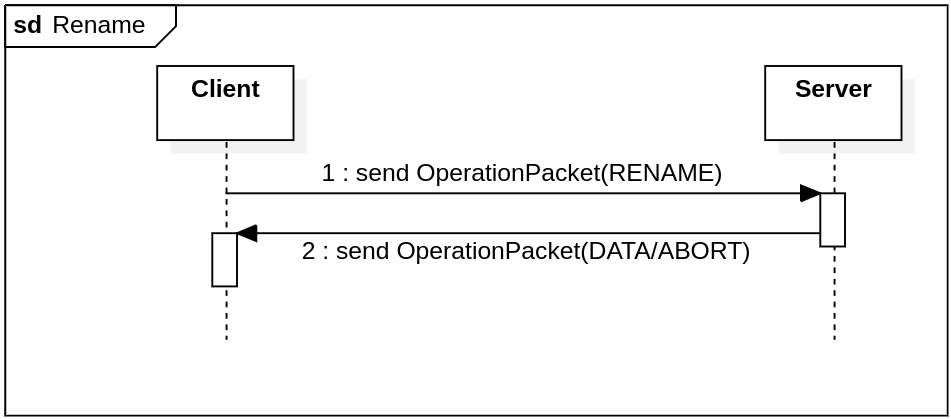
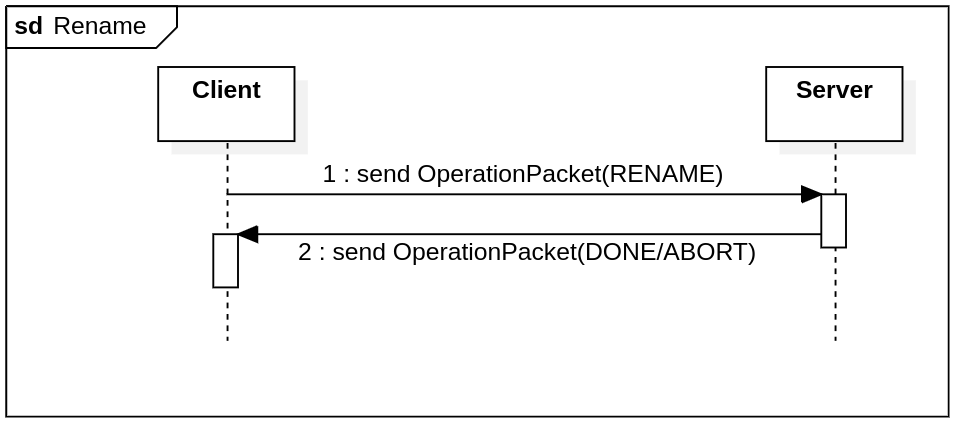
Add chapter 3

Changed region(s): [[0.0, 0.0, 1.0, 1.0], [0.1525, 0.1551, 0.3354, 0.3413], [0.2135, 0.6516, 0.244, 0.7136]]

diff --git a/chapters/chapter-3.tex b/chapters/chapter-3.tex
@@ -10,7 +10,7 @@
 %**************************************************************
 \section{Structure of packets}
 
-There is one generic packet that will be exchanged during the client - server communication. It is made of: \newline{}
+There is one generic packet that will be exchanged during the client - server communication. We shall call it ``OperationPacket'' and it is made of: \newline{}
 \begin{itemize}
 	\item AAD (24 bytes)
 	\item IV (12 bytes)
@@ -78,6 +78,18 @@ An in depth description of every single content of the AAD is necessary:
 In this section every operation and its sequence diagram will be discussed and explained.
 
 \subsection{Upload}
+\begin{enumerate} 
+	\item client, after validating filename, file existance and size, sends OperationPacket with payload made of the filename and AAD made of message counter and: \newline{}
+	\begin{itemize}
+		\item operation ID = UPLOAD;
+		\item number of packets that will be sent to server;
+		\item payload length: the size of the filename.
+	\end{itemize}
+	\item server validates the request checking the filename and if the file does not exists already and sends ACK if valid, otherwise ABORT;
+	\item client starts sending in order but asynchronously data packets containing the content of the files;
+	\item server reads and validates every packets, checking if they are being received in the correct order. When the server finishes reading all the packets it sends a DONE.
+
+\end{enumerate}
 
 \begin{figure}[!h] 
     \centering 
@@ -86,7 +98,20 @@ In this section every operation and its sequence diagram will be discussed and e
     \label{fig:upload_operation}
 \end{figure}
 
+\newpage{}
+
 \subsection{Download}
+\begin{enumerate}
+	\item client, after validating filename and file existance, sends OperationPacket with payload made of the filename and AAD made of message counter and: \newline{}
+	\begin{itemize}
+		\item operation ID = DOWNLOAD;
+		\item payload length: the size of the filename.
+	\end{itemize}
+	\item server validates the request checking filename and if the file exists and sends ACK if valid, otherwise ABORT;
+	\item client sends ACK;
+	\item server starts sending in order but asynchronously data packets containing the content of the files;
+	\item client reads and validates every packets, checking if they are being received in the correct order. When the client finishes reading all the packets it sends a DONE.
+\end{enumerate}
 
 \begin{figure}[!h] 
     \centering 
@@ -94,9 +119,14 @@ In this section every operation and its sequence diagram will be discussed and e
     \caption{Download operation.}
     \label{fig:download_operation}
 \end{figure}
-
+\newpage{}
 \subsection{List}
-
+\begin{enumerate}
+	\item client sends OperationPacket LIST;
+	\item server sends OperationPacket DATA containing all the filenames found and validated by the server on the remote folder, separated by ','. Ex: file1,file2,file3 ;
+	\item client reads the OperationPacket and splits the received payload in strings, validates them and display them to console.
+	
+\end{enumerate}
 \begin{figure}[!h] 
     \centering 
     \includegraphics[width=1\columnwidth]{chapter-3/List.png} 
@@ -105,6 +135,11 @@ In this section every operation and its sequence diagram will be discussed and e
 \end{figure}
 
 \subsection{Delete}
+\begin{enumerate}
+	\item client input a filename, validates the input and if valid checks for client confirmation of this destructive operation. The check is made client side because, if someone modified the client source code, then it would be as trivial to skip the client side check as it would to send an automatic ACK message after the server asks for confirmation. This means that a server side check will not provide benefit nor in security and nor in speed while putting the check client side the security will be the same but sending useless packets will be avoided;
+	\item client sends OperationPacket DELETE with payload containing filename;
+	\item server validates the request checking filename and if the file exists and delete file and sends DONE if valid, otherwise ABORT;
+\end{enumerate}
 
 \begin{figure}[!h] 
     \centering 
@@ -114,6 +149,11 @@ In this section every operation and its sequence diagram will be discussed and e
 \end{figure}
 
 \subsection{Rename}
+\begin{enumerate}
+	\item client input firstly the file to rename and after that the name that he wants to rename it to. Every step of the input is validated;
+	\item client sends OperationPacket RENAME containing the two filenames as payload, separated by ','. Ex: fileold.example,filenew.txt ;
+	\item server reads the OperationPacket and splits the received payload in two strings, old and new name. It validates the two, checks if the old filename exists in the remote folder and then renames it to the desired new name. If this was successful sends DONE, otherwise ABORT.
+\end{enumerate}
 
 \begin{figure}[!h] 
     \centering 
@@ -121,8 +161,16 @@ In this section every operation and its sequence diagram will be discussed and e
     \caption{Rename operation.}
     \label{fig:rename_operation}
 \end{figure}
-
+\newpage{}
 \subsection{Logout}
+\begin{enumerate}
+	\item client sensd OperationPacket LOGOUT;
+	\item server answers with OperationPacket ACK;
+	\item client asks the user to confirm the operation;
+	\item if the operation was confirmed sends DONE to server and closes the connection, otherwise ABORT;
+	\item server reads the OperationPacket and if DONE it closes the connection on its part, otherwise it ignores the previous request and keeps the connection going.
+\end{enumerate}
+
 
 \begin{figure}[!h] 
     \centering 

diff --git a/project-report.tex b/project-report.tex
@@ -124,9 +124,9 @@
 % Materiale iniziale
 %**************************************************************
 \frontmatter
-\input{inizio-fine/frontispiece}
-% \input{inizio-fine/sommario}
-\input{inizio-fine/index}
+\input{intro-ending/frontispiece}
+% \input{intro-ending/sommario}
+\input{intro-ending/index}
 \cleardoublepage
 
 %**************************************************************
